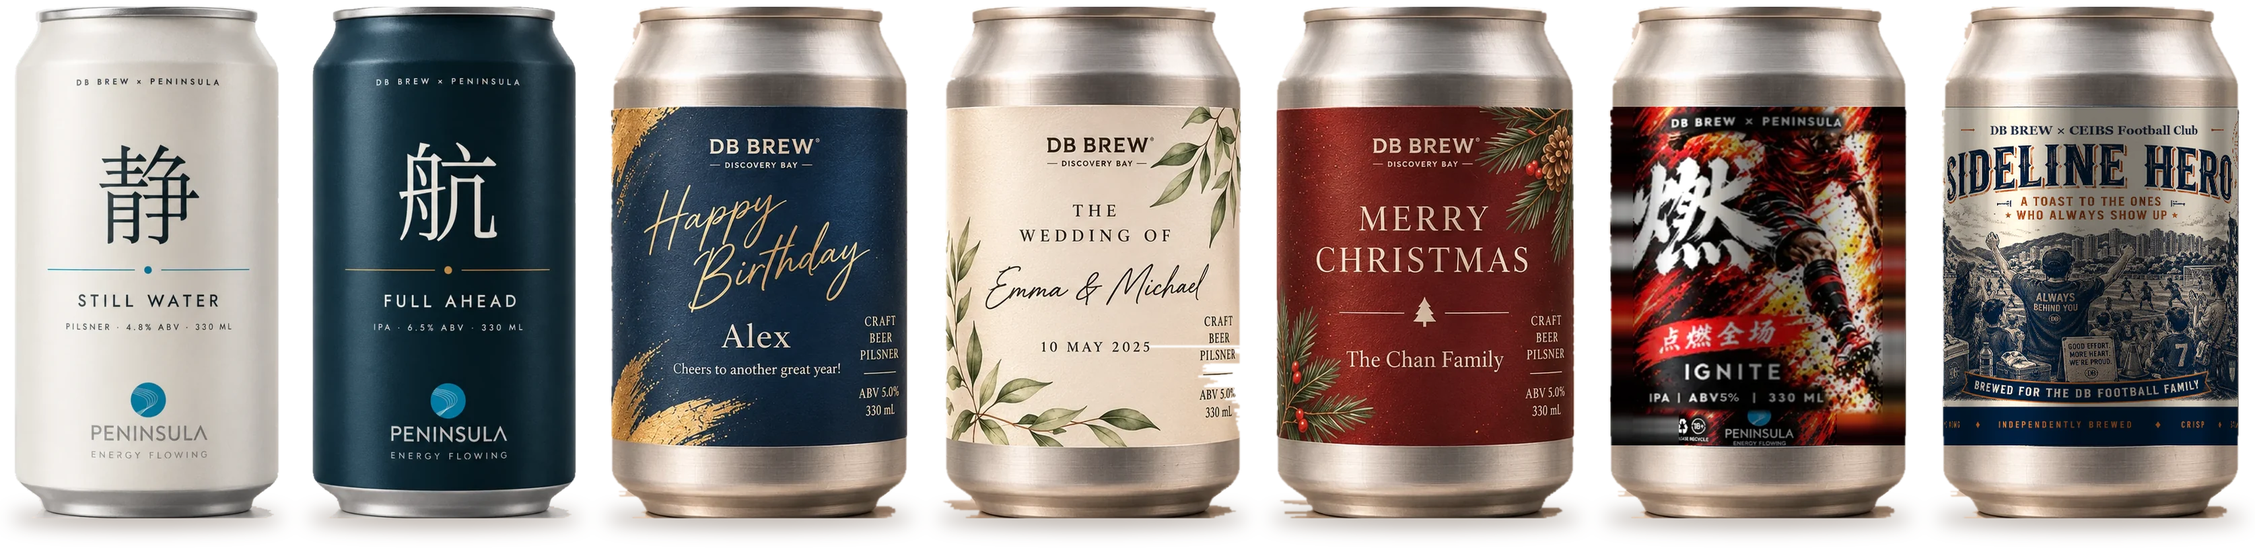
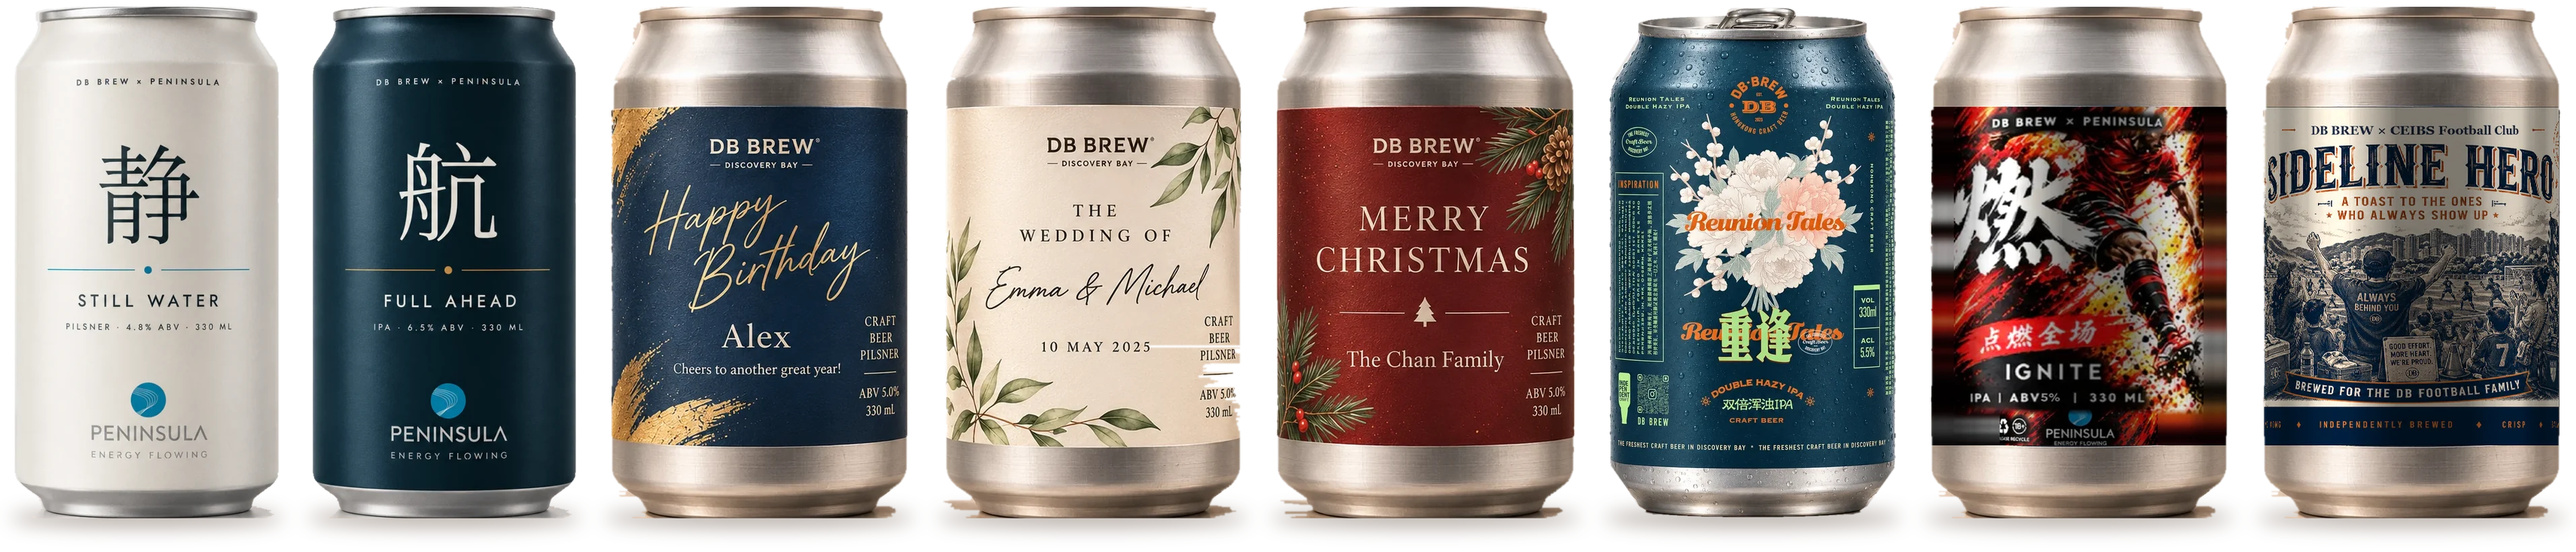
feat(mybeer): add Reunion Tales can to homepage; WhatsApp enquiry button

diff --git a/mybeer.html b/mybeer.html
@@ -220,9 +220,9 @@ html[data-lang="en"] .head h2,html[data-lang="en"] .bespoke h2{font-family:var(-
 .mgrid{display:none}
 @media (max-width:860px){
   .lineup-wrap,.swipe{display:none!important}
-  .mgrid{display:flex;flex-wrap:wrap;justify-content:center;gap:18px 14px;margin:26px auto 0;max-width:420px}
-  .mcell{flex:0 0 auto}
-  .mcell img{height:clamp(112px,34vw,150px);width:auto;filter:drop-shadow(0 12px 8px #5b3a2230);margin-bottom:8px}
+  .mgrid{display:grid;grid-template-columns:repeat(4,minmax(0,1fr));gap:18px 8px;margin:26px auto 0;max-width:420px}
+  .mcell{display:flex;justify-content:center;min-width:0}
+  .mcell img{height:clamp(100px,30vw,140px);width:auto;max-width:100%;object-fit:contain;filter:drop-shadow(0 12px 8px #5b3a2230);margin-bottom:8px}
   .mcell b{font-weight:600;font-size:15px;letter-spacing:.06em;white-space:nowrap}
   .mcell>span{font:500 13px var(--latin);color:var(--soft)}
   .cases .grid{grid-template-columns:minmax(0,1fr) minmax(0,1fr)!important;gap:12px}
@@ -312,7 +312,7 @@ html[data-lang="en"] .head h2,html[data-lang="en"] .bespoke h2{font-family:var(-
   </div>
 
   <div class="lineup-wrap" id="types"><div class="lineup-inner">
-    <img id="lineup-img" src="/mybeer-lineup.webp" width="3350" height="820" alt="DB BREW custom cans for companies, birthdays, weddings, parties and sports teams">
+    <img id="lineup-img" src="/mybeer-lineup.webp" width="3826" height="820" alt="DB BREW custom cans for companies, birthdays, weddings, parties and sports teams">
   </div></div>
   <div class="mgrid">
     <div class="mcell"><img src="/mybeer-m-jing.webp" height="420" alt="Peninsula Still Water can"></div>
@@ -320,6 +320,7 @@ html[data-lang="en"] .head h2,html[data-lang="en"] .bespoke h2{font-family:var(-
     <div class="mcell"><img src="/mybeer-m-bday.webp" height="420" alt="Birthday can"></div>
     <div class="mcell"><img src="/mybeer-m-wed.webp" height="420" alt="Wedding can"></div>
     <div class="mcell"><img src="/mybeer-m-party.webp" height="420" alt="Christmas party can"></div>
+    <div class="mcell"><img src="/mybeer-m-reunion.webp" height="420" alt="Reunion Tales can for CEIBS FMBA Class of 2020"></div>
     <div class="mcell"><img src="/mybeer-m-ran.webp" height="420" alt="Peninsula football Ignite can"></div>
     <div class="mcell"><img src="/mybeer-m-side.webp" height="420" alt="Sideline Hero can for CEIBS Football Club"></div>
   </div>
@@ -437,7 +438,7 @@ html[data-lang="en"] .head h2,html[data-lang="en"] .bespoke h2{font-family:var(-
 
 <script>
 // DB BREW's WhatsApp number, digits only with country code (e.g. "85291234567"). Empty = copy enquiry only.
-const WHATSAPP = "";
+const WHATSAPP = "85254801597";
 
 const O={
   bday:{zh:'生日',en:'Birthday',img:'/mybeer-blank-bday.webp',f:[['name','名字','Name','Alex',20],['msg','祝福語','Message','Cheers to another great year!',40]]},
